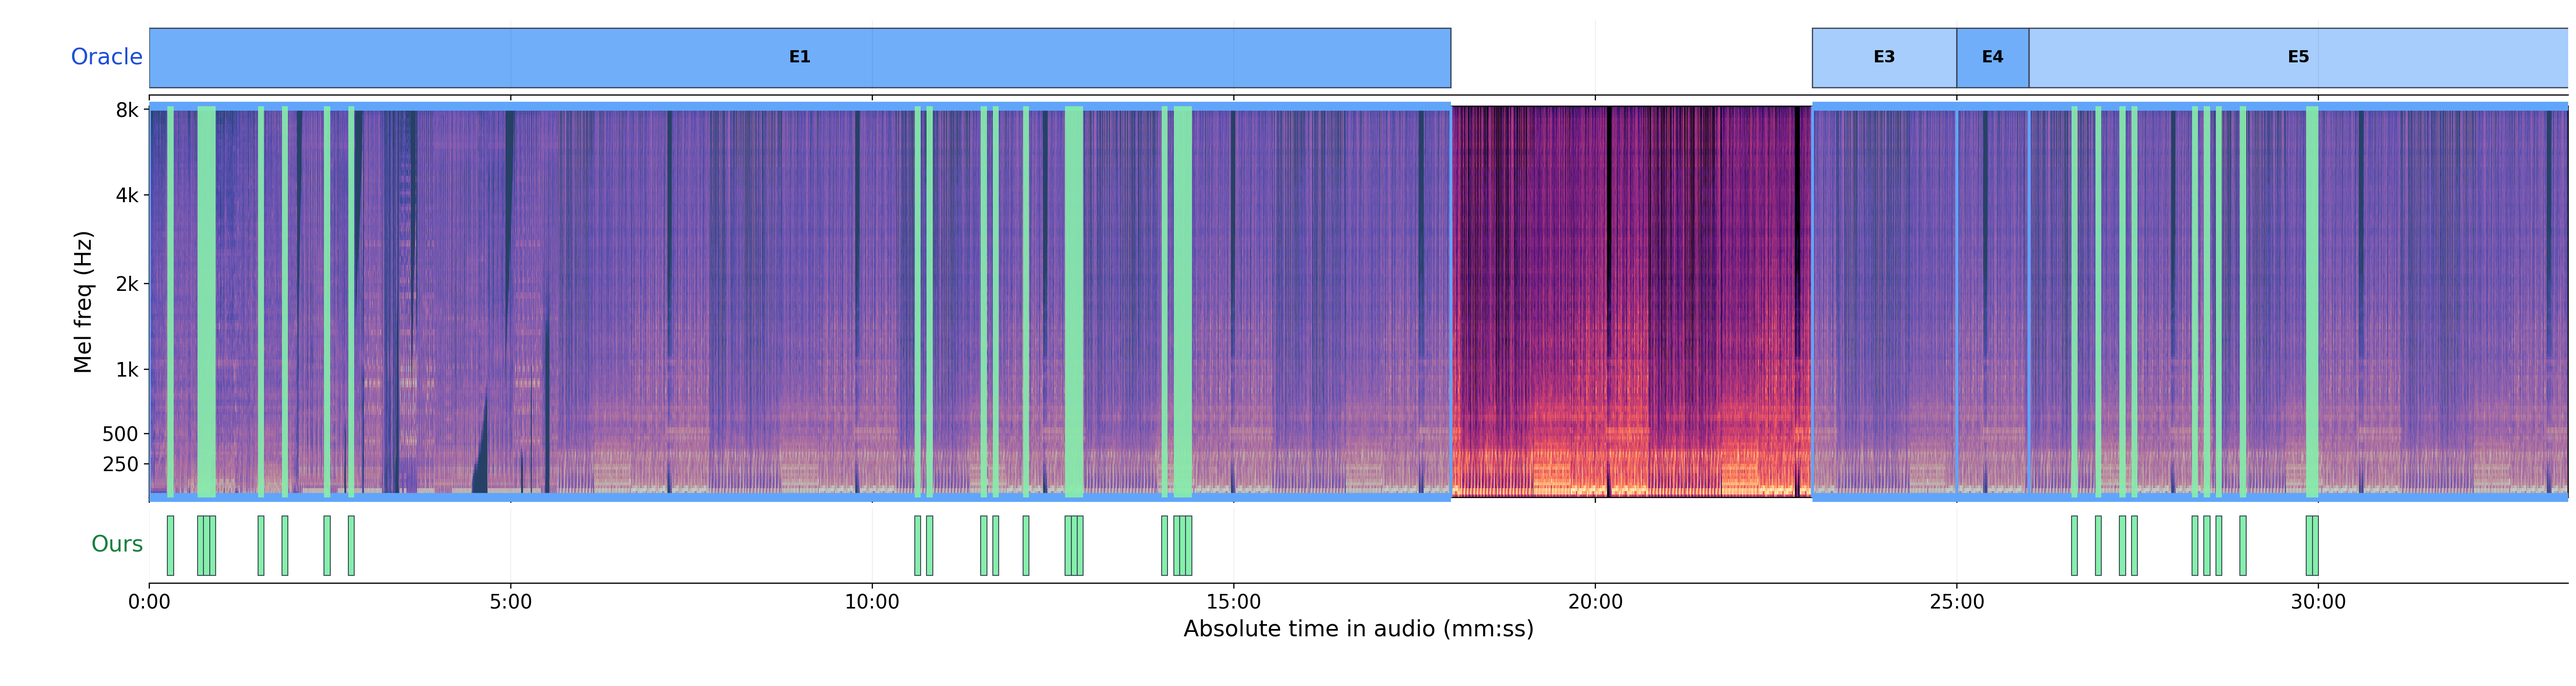
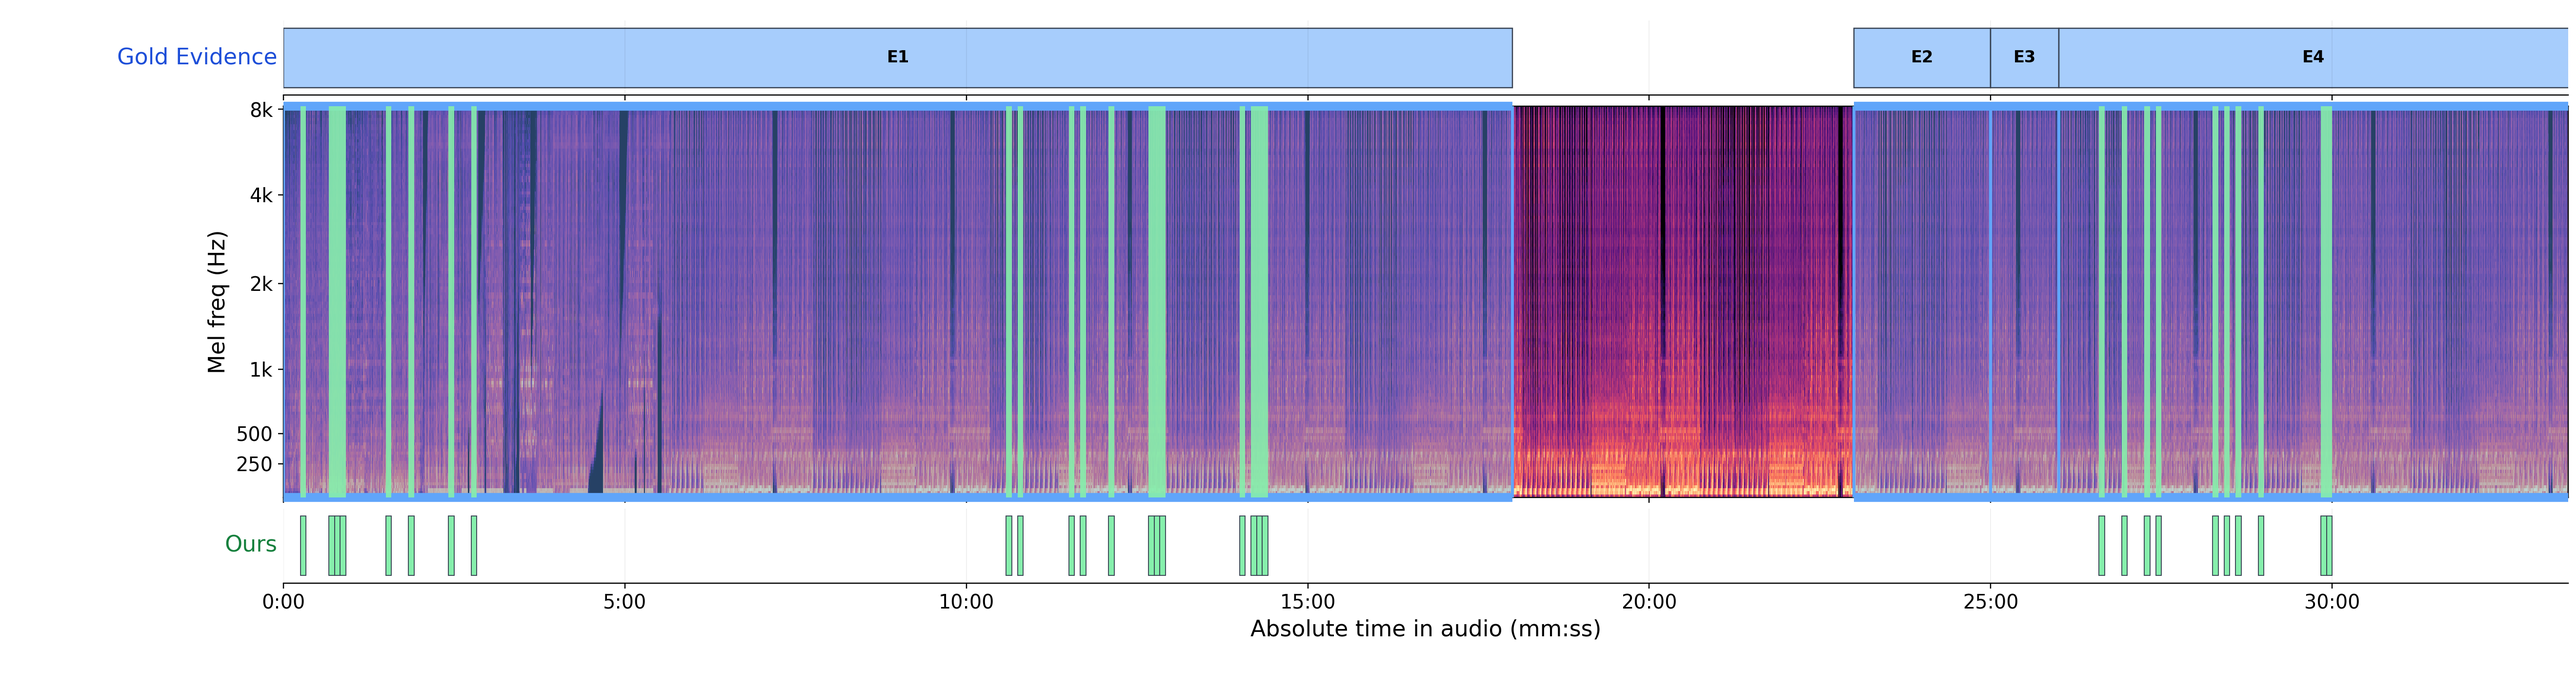
Rename Oracle to Gold Evidence, unify En numbering/color
- Spectrogram figures: row label "Oracle" -> "Gold Evidence",
  per-event boxes renumbered consecutively (E1,E2,...) instead of
  the original TraceAV event_id, and unified to a single lighter
  blue instead of the alternating two-shade fill.
- Homepage text/alt text updated to match.

diff --git a/index.html b/index.html
@@ -424,17 +424,17 @@ footer a { color: var(--text-dim); }
   <div class="container-wide">
     <h2>Qualitative Examples</h2>
     <p class="centered spec-caption" style="color:var(--text-dim);">
-      Mel spectrogram of the full original audio. Blue bands are oracle events; green ticks are AudioHelix's retrieved 5&nbsp;s units.<br>Play the audio or click the spectrogram to seek.
+      Mel spectrogram of the full original audio. Blue bands are gold evidence; green ticks are AudioHelix's retrieved 5&nbsp;s units.<br>Play the audio or click the spectrogram to seek.
     </p>
 
     <div class="retrieval-example">
       <h3 class="example-label">video300</h3>
-      <div class="spectro-wrap" data-video="video300" data-left="0.058" data-right="0.997" data-top="0.03" data-bottom="0.85" data-duration="2007.4135">
-        <img src="static/images/video300_mel_web.png" alt="Mel spectrogram of video300 with oracle events (blue) and AudioHelix's retrieved 5s units (green)">
+      <div class="spectro-wrap" data-video="video300" data-left="0.11" data-right="0.997" data-top="0.03" data-bottom="0.85" data-duration="2007.4135">
+        <img src="static/images/video300_mel_web.png" alt="Mel spectrogram of video300 with gold evidence (blue) and AudioHelix's retrieved 5s units (green)">
         <div class="playhead"></div>
       </div>
       <div class="spectro-legend">
-        <span class="sw"><i class="sw-oracle"></i> Oracle event</span>
+        <span class="sw"><i class="sw-oracle"></i> Gold Evidence</span>
         <span class="sw"><i class="sw-ours"></i> Ours: retrieved 5&nbsp;s unit</span>
       </div>
       <div class="audio-row">
@@ -470,12 +470,12 @@ footer a { color: var(--text-dim); }
 
     <div class="retrieval-example">
       <h3 class="example-label">video339</h3>
-      <div class="spectro-wrap" data-video="video339" data-left="0.058" data-right="0.997" data-top="0.03" data-bottom="0.85" data-duration="1838.2135">
-        <img src="static/images/video339_mel_web.png" alt="Mel spectrogram of video339 with oracle events (blue) and AudioHelix's retrieved 5s units (green)">
+      <div class="spectro-wrap" data-video="video339" data-left="0.11" data-right="0.997" data-top="0.03" data-bottom="0.85" data-duration="1838.2135">
+        <img src="static/images/video339_mel_web.png" alt="Mel spectrogram of video339 with gold evidence (blue) and AudioHelix's retrieved 5s units (green)">
         <div class="playhead"></div>
       </div>
       <div class="spectro-legend">
-        <span class="sw"><i class="sw-oracle"></i> Oracle event</span>
+        <span class="sw"><i class="sw-oracle"></i> Gold Evidence</span>
         <span class="sw"><i class="sw-ours"></i> Ours: retrieved 5&nbsp;s unit</span>
       </div>
       <div class="audio-row">
@@ -511,12 +511,12 @@ footer a { color: var(--text-dim); }
 
     <div class="retrieval-example">
       <h3 class="example-label">video364</h3>
-      <div class="spectro-wrap" data-video="video364" data-left="0.058" data-right="0.997" data-top="0.03" data-bottom="0.85" data-duration="2664.0535">
-        <img src="static/images/video364_mel_web.png" alt="Mel spectrogram of video364 with oracle events (blue) and AudioHelix's retrieved 5s units (green)">
+      <div class="spectro-wrap" data-video="video364" data-left="0.11" data-right="0.997" data-top="0.03" data-bottom="0.85" data-duration="2664.0535">
+        <img src="static/images/video364_mel_web.png" alt="Mel spectrogram of video364 with gold evidence (blue) and AudioHelix's retrieved 5s units (green)">
         <div class="playhead"></div>
       </div>
       <div class="spectro-legend">
-        <span class="sw"><i class="sw-oracle"></i> Oracle event</span>
+        <span class="sw"><i class="sw-oracle"></i> Gold Evidence</span>
         <span class="sw"><i class="sw-ours"></i> Ours: retrieved 5&nbsp;s unit</span>
       </div>
       <div class="audio-row">
